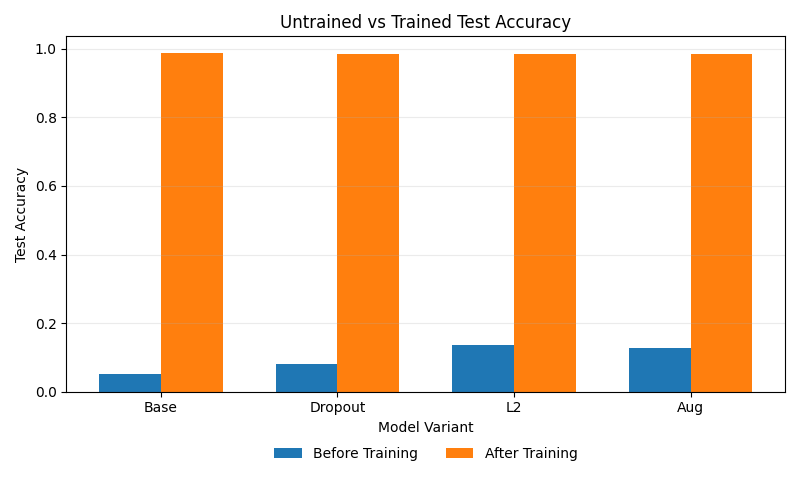
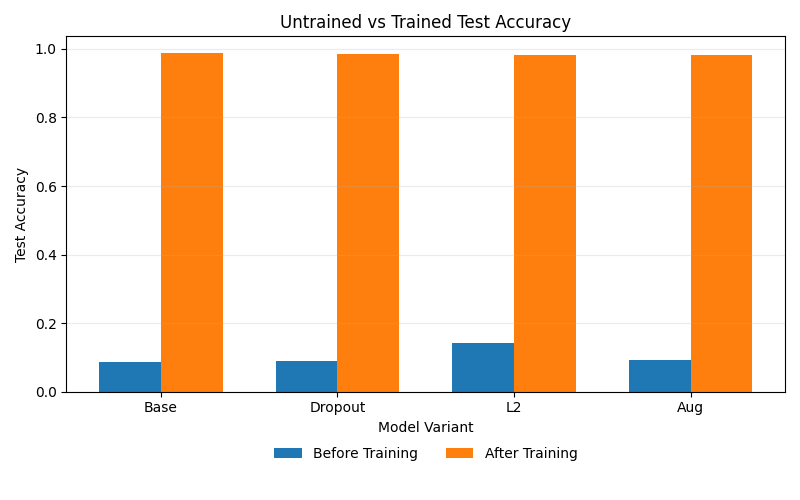
Consolidate gap plot output and sync notebook/results

diff --git a/src/train.py b/src/train.py
@@ -168,7 +168,7 @@ plt.close()
 
 
 
-# 8. visualizion: overfitting
+# 8. visualization: overfitting / generalization gap
 plt.figure(figsize=(8, 5))
 
 plt.bar(labels, [overfitting[l] for l in labels])
@@ -176,11 +176,10 @@ plt.axhline(0.0, color="black", linewidth=1)
 
 plt.xlabel("Model Variant")
 plt.ylabel("Train - Test Accuracy")
-plt.title("Overfitting Comparison")
+plt.title("Overfitting / Generalization Gap")
 plt.grid(axis="y", alpha=0.25)
 
 plt.tight_layout()
-plt.savefig(os.path.join(results_dir, "overfitting.png"))
 plt.savefig(os.path.join(results_dir, "generalization_gap.png"))
 plt.close()
 
@@ -205,7 +204,7 @@ plt.close()
 
 
 
-# 10. print final results
+# 9. print final results
 print("\nFINAL RESULTS")
 for name in models:
     print(
